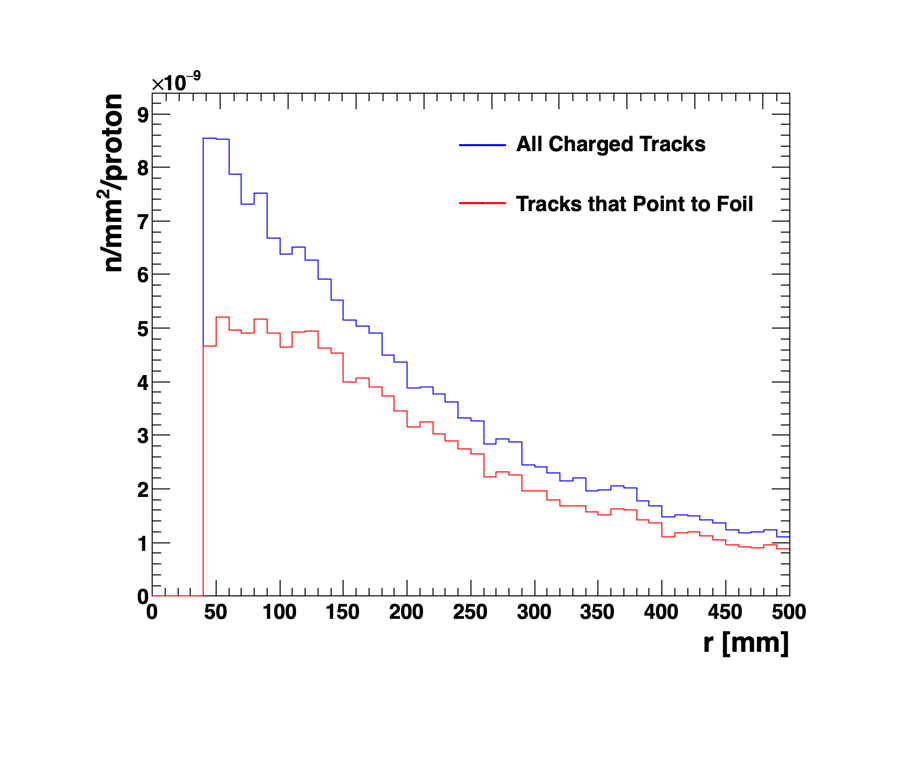
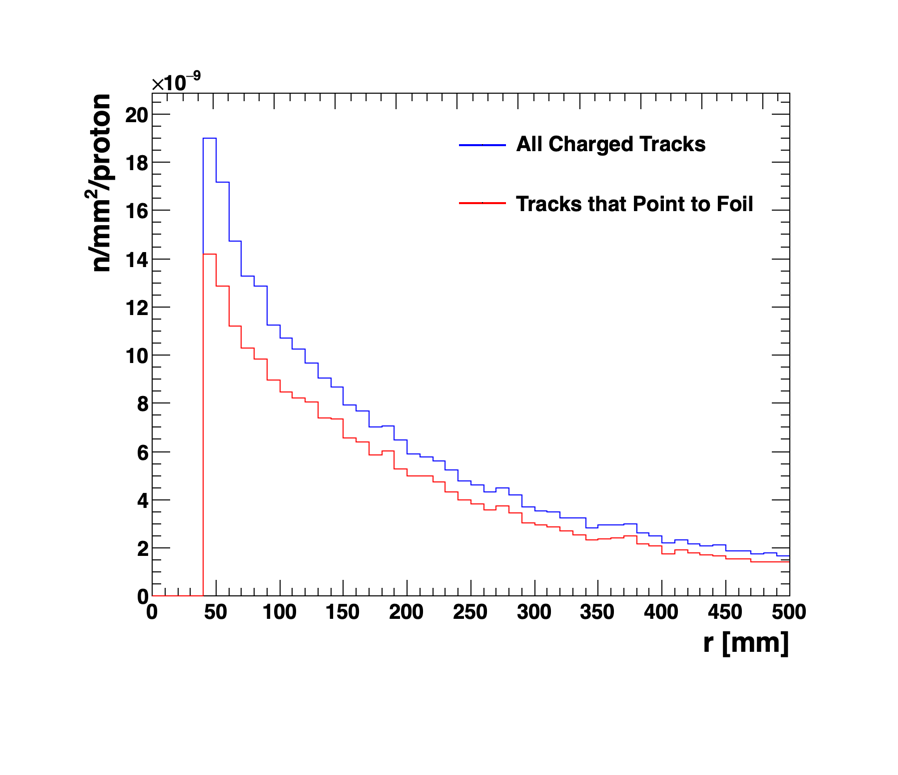
proton added

diff --git a/root/drawHist.C b/root/drawHist.C
@@ -3,7 +3,7 @@
 // ------------------------------- Modification Zone - begin --------------------------------
 // 1. input rootfile
 TString Nevents = "1e07";
-TString input = "rootfiles/ScatterDistribution_charged.root";
+TString input = "rootfiles/ScatterDistribution.root";
 
 // 2. hists to compare
 TString hist1 = "scatter";
@@ -21,7 +21,7 @@ TString LEGEND2 = "Tracks that Point to Foil";
 TString TEXT = "";
 
 // 6. output label
-TString LABEL = "figures/Nscatter_compare_" + Nevents + "_charged.png";
+TString LABEL = "figures/Nscatter_compare_" + Nevents + ".png";
 // ------------------------------- Modification Zone - end ----------------------------------
 
 

diff --git a/root/VDtoIC.C b/root/VDtoIC.C
@@ -22,6 +22,7 @@ bool ChargeCheck(float id){
     if ( std::abs(id) == 13 ) return true;// muon
     if ( std::abs(id) == 211 ) return true;// pion
     if ( std::abs(id) == 321 ) return true;// kaon
+    if ( std::abs(id) == 2212 ) return true;// proton
 
     return false;
 }
